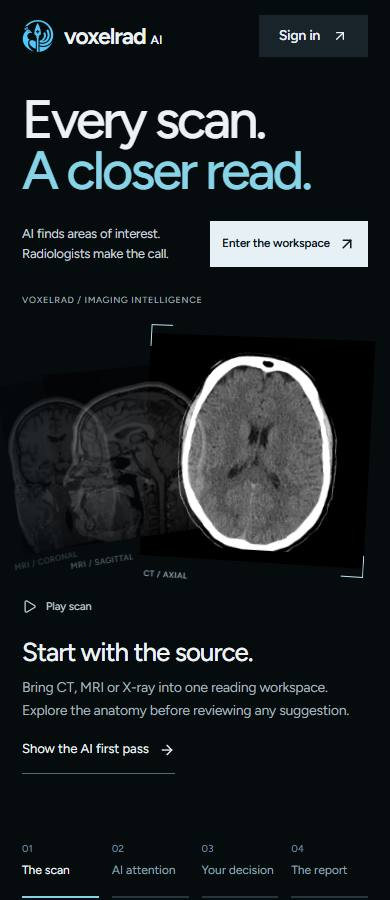
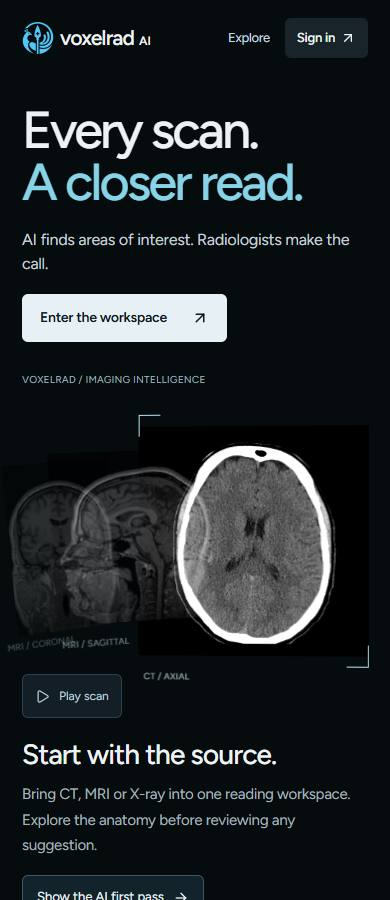
Polish cinematic landing with unified dark UI and scan comparison

diff --git a/app/src/landing-refinements.css b/app/src/landing-refinements.css
@@ -1,0 +1,95 @@
+/* Shared finish across the cinematic introduction and working demonstrations. */
+.vr-cinematic-page{--lp2-ink:#edf3f5;--lp2-muted:#a6b5bf;--lp2-blue:#9bd7e6;--lp2-paper:#080e12;--lp2-line:#263740;--lp2-soft:#17262f;background:var(--lp2-paper);color:var(--lp2-ink);color-scheme:dark}
+.vr-cinematic-page .lp2-wrap{width:min(1280px,calc(100% - 80px))}
+.vr-cinematic-page .lp2-header{width:100%;height:88px}
+.vr-cinematic-page .lp2-brand{font-size:25px;font-weight:550;letter-spacing:-.8px}
+.vr-cinematic-page .lp2-header nav{gap:34px;font-size:14px}
+.vr-cinematic-page .lp2-nav-login{border-radius:6px;padding:12px 20px}
+.vr-cinema{padding-top:34px}
+.lp2-page .vr-cinema h1{font-size:clamp(70px,7.2vw,104px);letter-spacing:-.052em;line-height:1}
+.vr-cinema-intro>a{border-radius:6px;padding:15px 23px}
+.vr-cinema-heading{align-items:center}
+.vr-cinema-scene{margin-top:40px;height:460px}
+.vr-film-label{font-size:12px;color:#9baeb9;letter-spacing:.025em}
+.vr-film-label>span+span{color:#9baeb9}
+.vr-film-coronal{top:95px;transform:rotateY(25deg) rotateZ(-6deg);opacity:.4}
+.vr-film-sagittal{top:55px;transform:rotateY(15deg) rotateZ(-3deg);opacity:.68}
+.vr-film-axial{width:385px;height:395px;top:20px;transform:rotateY(-4deg) rotateZ(0)}
+.vr-film>span{font-size:11px;letter-spacing:.025em}
+.vr-cinema-caption{top:115px;width:275px}
+.vr-cinema-caption>p:first-child{font-size:12px;letter-spacing:.03em;color:#94cddd}
+.lp2-page .vr-cinema-caption h2{font-size:32px;font-weight:500;letter-spacing:-.8px}
+.vr-cinema-caption>p:not(:first-child){font-size:16px;line-height:1.7}
+.vr-cinema-caption>button{border:1px solid #3e5663;border-radius:6px;padding:12px 15px;font-size:14px;gap:9px;margin-top:22px;background:#13232c}
+.vr-cinema-caption>button:hover{background:#203640;color:white}
+.vr-cine-control{font-size:13px!important;color:#becdd5;padding:10px 13px;background:#121f27;border:1px solid #2c414d;border-radius:6px;bottom:0}
+.vr-cinema-bottom nav{gap:10px;margin-top:25px}
+.vr-cinema-bottom nav button{border-radius:6px;padding:17px 20px;background:#0e181f;min-height:62px;font-size:15px;gap:13px}
+.vr-cinema-bottom nav button:hover{background:#182a35;color:#f3f8fb}
+.vr-cinema-bottom nav button[aria-current=step]{background:#213640;color:#e8f8ff}
+.vr-cinema-bottom nav button>i{left:20px;right:20px;height:2px;bottom:0;background:transparent}
+.vr-cinema-bottom nav button>span{color:#a2bac8;font-size:12px}
+.vr-cinema-bottom>p{font-size:12px;color:#9cabb5;margin-top:18px}
+.vr-cinematic-page .lp2-capabilities{background:transparent;padding-block:42px;gap:30px;color:var(--lp2-ink);border-bottom:1px solid var(--lp2-line)}
+.vr-cinematic-page .lp2-capabilities>div{border:0;padding:0;text-align:left}
+.vr-cinematic-page .lp2-capabilities strong{font-size:20px;font-weight:500}
+.vr-cinematic-page .lp2-capabilities span{font-size:14px;color:var(--lp2-muted);margin-top:7px}
+.vr-cinematic-page .lp3-flow-section{background:#080e12;padding-block:100px}
+.vr-cinematic-page .lp3-flow-heading{max-width:780px;text-align:left;margin:0}
+.vr-cinematic-page .lp3-flow-heading h2,.vr-cinematic-page .lp2-section-title h2,.vr-cinematic-page .lp2-questions h2{font-size:clamp(38px,4vw,56px);font-weight:500;letter-spacing:-1.7px;line-height:1.08}
+.vr-cinematic-page .lp3-flow-heading>p:last-child{font-size:18px;color:var(--lp2-muted);max-width:650px;margin-top:24px;line-height:1.65}
+.vr-cinematic-page .lp2-label{color:#91cddd;font-size:13px;font-weight:500;letter-spacing:.01em;margin-bottom:19px}
+.vr-cinematic-page .lp3-flow{border-color:#2d404b;border-radius:12px;background:#101b23;color:#edf3f5}
+.vr-cinematic-page .lp3-flow-nav{border-color:#2d404b;padding:16px 22px}
+.vr-cinematic-page .lp3-flow-nav button{color:#afbec8;font-size:14px}
+.vr-cinematic-page .lp3-flow-nav button>span{background:#233640;color:#c6d8e3}
+.vr-cinematic-page .lp3-flow-nav button[aria-current=step]{color:#c1ecf5}
+.vr-cinematic-page .lp3-flow-nav button[aria-current=step]>span{background:#a3d9e8;color:#10232c}
+.vr-cinematic-page .lp3-flow-progress{background:#263942}
+.vr-cinematic-page .lp3-flow-progress>span{background:#91d1e3}
+.vr-cinematic-page .lp3-flow-visual{background:#0b141b}
+.vr-cinematic-page .lp3-flow-tools button{color:#c1ced6;font-size:13px}
+.vr-cinematic-page .lp3-flow-tools>div{background:#20313c}
+.vr-cinematic-page .lp3-flow-tools button[aria-pressed=true]{background:#344f5d;color:#fff}
+.vr-cinematic-page .lp3-step-copy>p:not(.lp2-label){color:#b3c1cb;font-size:16px}
+.vr-cinematic-page .lp3-step-copy .lp3-disclosure{font-size:12px;color:#a5b5bf}
+.vr-cinematic-page .lp3-flow-copy .lp3-review-hint{background:#233b46;color:#d0ecf4!important}
+.vr-cinematic-page .lp3-finding-card,.vr-cinematic-page .lp3-flow-report{color:#182730}
+.vr-cinematic-page .lp3-flow-benefit{color:#a6b5bf;font-size:17px;text-align:left;margin:28px 0 0;max-width:760px}
+.vr-cinematic-page .lp2-primary{background:#b0deea;color:#11232b!important;border-radius:6px;padding:13px 20px;font-size:14px!important}
+.vr-cinematic-page .lp2-primary:hover{background:#d0eef5}
+.vr-cinematic-page .lp2-demo-section{background:#101a22;padding-block:96px}
+.vr-cinematic-page .lp2-section-title>p{color:var(--lp2-muted);font-size:17px;line-height:1.7}
+.vr-cinematic-page .lp2-demo-shell{background:#15232d;border-color:#304551;border-radius:12px;box-shadow:none}
+.vr-cinematic-page .lp2-demo-bar{padding:18px 24px;border-color:#304551}
+.vr-cinematic-page .lp2-demo-image{background:#080e12;padding:20px}
+.vr-cinematic-page .lp2-demo-guide{padding:32px}
+.vr-cinematic-page .lp2-demo-steps button{font-size:14px;color:#b7c7d0}
+.vr-cinematic-page .lp2-demo-steps button[aria-pressed=true]{background:#29414e;color:#d5f1f8}
+.vr-cinematic-page .lp2-demo-steps button[aria-pressed=true]>span{background:#a6d9e7;color:#122732;border-color:#a6d9e7}
+.vr-cinematic-page .lp2-demo-note textarea{background:#0c1720;color:#edf3f5;border-color:#577384}
+.vr-cinematic-page .lp2-demo-actions>button:first-child{background:#233946;color:#e5f3fa;border-color:#3d5767}
+.vr-cinematic-page .lp2-draft{background:#0c1821;border-color:#3c5462;color:#d9e9f2}
+.vr-cinematic-page .lp2-draft p{color:#b8c9d3}
+.vr-cinematic-page .lp2-audience{padding-block:100px}
+.vr-cinematic-page .lp2-audience-grid{gap:40px}
+.vr-cinematic-page .lp2-audience-grid article{border-color:#304651}
+.vr-cinematic-page .lp2-audience-grid h3{font-size:25px;font-weight:500;line-height:1.2;margin-bottom:18px}
+.vr-cinematic-page .lp2-audience-grid article>p{font-size:16px;line-height:1.7}
+.vr-cinematic-page .lp2-audience-grid ul{font-size:14px;color:#c5d0d8;gap:12px}
+.vr-cinematic-page .lp2-audience-grid article>span{color:#92cddd;font-size:13px}
+.vr-cinematic-page .lp2-use-note{color:#a1b3be;font-size:13px}
+.vr-cinematic-page .lp-question button{color:#e6eff5;font-size:17px;min-height:80px}
+.vr-cinematic-page .lp-answer p{color:#b1c1cb;font-size:16px;line-height:1.7}
+.vr-cinematic-page .lp2-close{background:#182a35;border-radius:12px;padding:54px}
+.vr-cinematic-page .lp2-close h2{font-size:52px;font-weight:500;line-height:1.06;letter-spacing:-1.6px}
+.vr-cinematic-page .lp2-footer{padding-top:55px}
+.vr-cinematic-page .lp2-footer small{font-size:12px;line-height:1.7}
+.vr-mobile-menu{display:none;position:relative}
+@media(max-width:1200px){.vr-film-axial{width:320px;height:360px;left:250px}.vr-cinema-caption{width:245px}.lp2-page .vr-cinema-caption h2{font-size:28px}}
+@media(max-width:950px){.vr-cinematic-page .lp2-wrap{width:calc(100% - 60px)}.vr-cinema-scene{height:440px}.vr-film-axial{width:265px;height:320px;left:165px}.vr-cinema-caption{width:210px;top:85px}.vr-cinema-caption>p:not(:first-child){font-size:14px}.vr-cinema-caption>button{font-size:12px;padding:10px}.vr-cinema-bottom nav button{padding:15px 12px;font-size:14px}.vr-cinematic-page .lp2-demo-guide{padding:24px}.vr-cinematic-page .lp2-audience-grid{gap:24px}}
+@media(max-width:760px){.vr-cinematic-page .lp2-wrap{width:calc(100% - 44px)}.vr-cinematic-page .lp2-header{width:100%;padding-inline:22px;height:76px;gap:15px}.vr-cinematic-page .lp2-brand{font-size:21px;gap:6px}.vr-cinematic-page .lp2-nav-login{padding:10px 12px;font-size:13px;gap:5px}.vr-mobile-menu{display:block;margin-left:auto}.vr-mobile-menu summary{list-style:none;cursor:pointer;font-size:13px;min-height:44px;display:flex;align-items:center;color:#c5d9e5}.vr-mobile-menu summary::-webkit-details-marker{display:none}.vr-cinematic-page .vr-mobile-menu nav{position:absolute;right:-80px;top:48px;z-index:20;width:215px;display:flex;flex-direction:column;gap:0;background:#172832;border:1px solid #3d5563;border-radius:8px;padding:10px;box-shadow:0 15px 35px #0005}.vr-mobile-menu nav a{padding:12px!important;font-size:14px}.vr-cinematic-page .lp2-capabilities{gap:24px;padding-block:30px}.vr-cinematic-page .lp2-capabilities strong{font-size:18px}.vr-cinematic-page .lp2-capabilities span{font-size:13px}.vr-cinematic-page .lp3-flow-section,.vr-cinematic-page .lp2-demo-section,.vr-cinematic-page .lp2-audience{padding-block:64px}.vr-cinematic-page .lp3-flow-heading h2,.vr-cinematic-page .lp2-section-title h2,.vr-cinematic-page .lp2-questions h2{font-size:38px;letter-spacing:-1.1px}.vr-cinematic-page .lp3-flow-heading>p:last-child,.vr-cinematic-page .lp2-section-title>p{font-size:16px}.vr-cinematic-page .lp3-flow-nav{padding:10px}.vr-cinematic-page .lp3-flow-nav button{font-size:12px}.vr-cinematic-page .lp2-demo-image{padding:10px}.vr-cinematic-page .lp2-demo-guide{padding:24px}.vr-cinematic-page .lp2-audience-grid{gap:30px}.vr-cinematic-page .lp2-close{padding:30px}.vr-cinematic-page .lp2-close h2{font-size:38px}.vr-cinematic-page .lp-question button{font-size:16px}.vr-cinematic-page .lp2-footer{padding-top:35px}}
+@media(max-width:700px){.vr-cinema{padding-top:28px}.lp2-page .vr-cinema h1{font-size:clamp(52px,12vw,74px)}.vr-cinema-intro{display:block;margin-top:20px}.vr-cinema-intro p{font-size:16px;line-height:1.5}.vr-cinema-intro p br{display:none}.vr-cinema-intro>a{margin-top:18px;font-size:14px;padding:13px 18px;gap:24px}.vr-cinema-scene{margin-top:30px;height:570px}.vr-film-label{font-size:10px}.vr-film-axial{width:230px;height:275px;left:auto;right:0;top:17px}.vr-film-coronal{top:65px}.vr-film-sagittal{top:45px}.vr-film>span{font-size:9px}.vr-cine-control{top:302px;bottom:auto;font-size:12px!important;padding:8px 12px}.vr-cinema-caption{top:367px;width:auto}.lp2-page .vr-cinema-caption h2{font-size:28px;margin-bottom:12px}.vr-cinema-caption>p:not(:first-child){font-size:15px}.vr-cinema-caption>button{font-size:13px;padding:11px 14px;margin-top:16px;min-height:46px}.vr-cinema-bottom nav{gap:7px;margin-top:18px}.vr-cinema-bottom nav button{padding:12px 8px;font-size:11px;min-height:73px}.vr-cinema-bottom nav button>span{font-size:11px}.vr-cinema-bottom nav button>i{left:8px;right:8px}.vr-cinema-bottom>p{font-size:11px;line-height:1.6}.vr-cinema-report{top:30px}.vr-cinematic-page .lp3-flow-copy{min-height:375px}}
+.vr-cinematic-page .lp2-audience{background:transparent;padding-inline:0}
+.vr-cinematic-page .lp2-audience-grid article{background:transparent;border:0;border-top:1px solid #304651;border-radius:0;padding:25px 0 0}
+.vr-cinematic-page .lp3-flow-heading>p:last-child{margin-inline:0}

diff --git a/app/src/LandingPage.tsx b/app/src/LandingPage.tsx
@@ -3,6 +3,7 @@ import { Accordion, Tabs } from 'radix-ui'
 import { ArrowRight, ArrowUpRight, Pause, Play, Plus, Minus, Layers3, ScanLine, FileText, Check, RotateCcw, ArrowLeft } from 'lucide-react'
 import './landing.css'
 import { CinematicHero } from './CinematicHero'
+import './landing-refinements.css'
 
 const views = [
   { label: 'CT · Axial', image: '/login/ct-poster.webp', title: 'CT brain', detail: 'Move through the volume.', description: 'Play the axial cine or pause to take a closer look.' },
@@ -149,19 +150,19 @@ export function LandingPage() {
   useEffect(() => { document.title = 'VoxelRad AI — Your imaging workspace, reimagined' }, [])
   return <div className="landing-page lp2-page vr-cinematic-page" onKeyDownCapture={(event) => { event.currentTarget.dataset.motionInput = "keyboard" }} onPointerDownCapture={(event) => { event.currentTarget.dataset.motionInput = "pointer" }}>
     <a className="lp-skip" href="#main">Skip to content</a>
-    <header className="lp2-header lp2-wrap"><a className="lp2-brand" href="/" aria-label="VoxelRad AI home"><img src="/skanda-mark.png" alt="" /><span>voxelrad<span>AI</span></span></a><nav aria-label="Main navigation"><a href="#how-it-works">How it works</a><a href="#for-you">Who it’s for</a><a href="#demo">Try the demo</a></nav><a className="lp2-nav-login" href="/workspace">Sign in <ArrowUpRight size={16} /></a></header>
+    <header className="lp2-header lp2-wrap"><a className="lp2-brand" href="/" aria-label="VoxelRad AI home"><img src="/skanda-mark.png" alt="" /><span>voxelrad<span>AI</span></span></a><nav aria-label="Main navigation"><a href="#how-it-works">How it works</a><a href="#for-you">Who it’s for</a><a href="#demo">Try the demo</a></nav><details className="vr-mobile-menu" onKeyDown={(event) => { if (event.key === 'Escape') { event.currentTarget.open = false; event.currentTarget.querySelector('summary')?.focus() } }}><summary>Explore</summary><nav aria-label="Mobile navigation" onClick={(event) => { event.currentTarget.closest('details')?.removeAttribute('open') }}><a href="#how-it-works">How it works</a><a href="#demo">Try the demo</a><a href="#for-you">Who it is for</a></nav></details><a className="lp2-nav-login" href="/workspace">Sign in <ArrowUpRight size={16} /></a></header>
     <main id="main">
       <CinematicHero />
       <section className="lp2-capabilities lp2-wrap" aria-label="Workspace capabilities"><div><strong>X-ray</strong><span>Image review & annotation</span></div><div><strong>CT & MRI</strong><span>Slice navigation & multiplanar views</span></div><div><strong>Findings</strong><span>Evidence beside the image</span></div><div><strong>Reports</strong><span>Draft, review & export</span></div></section>
-      <section className="lp3-flow-section" id="how-it-works" aria-labelledby="flow-title"><div className="lp2-wrap"><div className="lp3-flow-heading"><p className="lp2-label">From scan to report</p><h2 id="flow-title">AI takes the first pass.<br />You make the call.</h2><p>Upload a scan. Let AI highlight areas for attention with heatmaps and boxes. Review the evidence, approve or revise the findings, then bring them into a report.</p></div><div className="lp4-process">{flowSteps.map((item,index) => <article key={item.title}><span>{String(index+1).padStart(2,'0')}</span><h3>{item.title}</h3><p>{item.text}</p></article>)}</div><div className="lp5-workflow" id="hero-review"><ReviewFlow /></div><p className="lp3-flow-benefit">Designed to help radiologists find areas of interest sooner and spend less time assembling reports.</p></div></section>
-      <section className="lp2-demo-section" id="demo" aria-labelledby="demo-title"><div className="lp2-wrap"><div className="lp2-section-title"><div><p className="lp2-label">A little less reading. A little more doing.</p><h2 id="demo-title">Meet your workspace.</h2></div><p>Try a three-step walkthrough with a real teaching scan. Change the view, add an observation, and see it in a sample draft.</p></div><GuidedDemo /></div></section>
-      <section className="lp2-audience lp2-wrap" id="for-you" aria-labelledby="audience-title"><div className="lp2-section-title"><div><p className="lp2-label">Who it’s for</p><h2 id="audience-title">For people<br />who look closer.</h2></div><p>For evaluating imaging workflows, learning from anatomy, and exploring model-assisted review.</p></div><div className="lp2-audience-grid">
+      <section className="lp3-flow-section" id="how-it-works" aria-labelledby="flow-title"><div className="lp2-wrap"><div className="lp3-flow-heading"><p className="lp2-label">From scan to report</p><h2 id="flow-title">AI takes the first pass.<br />You make the call.</h2><p>Upload a scan. Let AI highlight areas for attention with heatmaps and boxes. Review the evidence, approve or revise the findings, then bring them into a report.</p></div><div className="lp5-workflow" id="hero-review"><ReviewFlow /></div><p className="lp3-flow-benefit">Designed to help radiologists find areas of interest sooner and spend less time assembling reports.</p></div></section>
+      <section className="lp2-demo-section" id="demo" aria-labelledby="demo-title"><div className="lp2-wrap"><div className="lp2-section-title"><div><p className="lp2-label">Try it yourself</p><h2 id="demo-title">Meet your workspace.</h2></div><p>Try a three-step walkthrough with a real teaching scan. Change the view, add an observation, and see it in a sample draft.</p></div><GuidedDemo /></div></section>
+      <section className="lp2-audience lp2-wrap" id="for-you" aria-labelledby="audience-title"><div className="lp2-section-title"><div><p className="lp2-label">Who it’s for</p><h2 id="audience-title">Built around<br />the reader.</h2></div><p>For evaluating imaging workflows, learning from anatomy, and exploring model-assisted review.</p></div><div className="lp2-audience-grid">
         <article><span>Clinical evaluation</span><h3>Radiologists & clinicians</h3><p>Explore a focused image-to-report workflow. Keep the source scan visible as you review findings and develop your interpretation.</p><ul><li>Multiplanar CT and MRI review</li><li>Image, findings and report together</li><li>Professional judgment at every step</li></ul></article>
         <article><span>Teaching & learning</span><h3>Residents & educators</h3><p>Make the relationship between planes tangible. Use public samples to practise navigation and discuss observations.</p><ul><li>Included public teaching volumes</li><li>Controls directly on the scan</li><li>A repeatable review workflow</li></ul></article>
         <article><span>Research & development</span><h3>Imaging researchers</h3><p>Connect a supported model server to investigate draft findings and regions alongside their source images.</p><ul><li>Configurable model connection</li><li>Model outputs subject to review</li><li>Hosted inference not yet enabled</li></ul></article>
       </div><p className="lp2-use-note">VoxelRad AI is for research and evaluation. It is not a clinically validated diagnostic system.</p></section>
       <section className="lp2-questions lp2-wrap" aria-labelledby="questions-title"><div><p className="lp2-label">Good to know</p><h2 id="questions-title">A few answers.</h2><p>What’s available, what you need,<br />and where to begin.</p></div><Accordion.Root className="lp-questions" type="single" collapsible>{questions.map(([question, answer], index) => <Accordion.Item className="lp-question" value={String(index)} key={question}><Accordion.Header><Accordion.Trigger>{question}<Plus size={20} aria-hidden="true" /></Accordion.Trigger></Accordion.Header><Accordion.Content className="lp-answer"><p>{answer}</p></Accordion.Content></Accordion.Item>)}</Accordion.Root></section>
-      <section className="lp2-close lp2-wrap"><div><img src="/skanda-mark.png" alt="" /><h2>Make room<br />for a closer look.</h2><p>Open the workspace. Give the image your full attention.</p></div><a className="lp2-primary" href="/workspace">Open VoxelRad AI <ArrowRight size={18} /></a></section>
+      <section className="lp2-close lp2-wrap"><div><img src="/skanda-mark.png" alt="" /><h2>Your next read<br />starts here.</h2><p>Open the workspace. Give the image your full attention.</p></div><a className="lp2-primary" href="/workspace">Open VoxelRad AI <ArrowRight size={18} /></a></section>
     </main><footer className="lp2-footer lp2-wrap"><a className="lp2-brand" href="/" aria-label="VoxelRad AI home"><img src="/skanda-mark.png" alt="" /><span>voxelrad<span>AI</span></span></a><p>A clearer space for imaging.</p><a href="/workspace">Sign in <ArrowUpRight size={15} /></a><small>voxelradai.com · Public teaching imagery: Slicer CTBrain and MRHead. No patient data is used in this demo.</small></footer>
   </div>
 }

diff --git a/app/src/CinematicHero.tsx b/app/src/CinematicHero.tsx
@@ -12,6 +12,7 @@ const chapters = [
 export function CinematicHero() {
   const [chapter, setChapter] = useState(0)
   const [approved, setApproved] = useState(false)
+  const [overlay, setOverlay] = useState(true)
   const [playing, setPlaying] = useState(false)
   const scene = useRef<HTMLDivElement>(null)
   const cine = useRef<HTMLVideoElement>(null)
@@ -30,7 +31,7 @@ export function CinematicHero() {
       return () => { window.clearTimeout(timer); observer.disconnect(); preference.removeEventListener('change', pause); document.removeEventListener('visibilitychange', onVisibility) }
     }
   }, [])
-  const select = (index: number) => { cine.current?.pause(); setChapter(index) }
+  const select = (index: number) => { cine.current?.pause(); setChapter(index); setOverlay(true) }
   const advance = () => {
     if (chapter === 2) setApproved(true)
     if (chapter === 3) { setApproved(false); select(0) } else select(chapter + 1)
@@ -38,7 +39,7 @@ export function CinematicHero() {
   return <section className="vr-cinema" data-chapter={chapter} aria-labelledby="hero-title">
     <div className="vr-cinema-heading">
       <h1 id="hero-title">Every scan.<br /><span>A closer read.</span></h1>
-      <div className="vr-cinema-intro"><p>AI finds areas of interest.<br />Radiologists make the call.</p><a href="/workspace">Enter the workspace <ArrowUpRight size={18} /></a></div>
+      <div className="vr-cinema-intro"><p>AI finds areas of interest. <br />Radiologists make the call.</p><a href="/workspace">Enter the workspace <ArrowUpRight size={18} /></a></div>
     </div>
     <div className="vr-cinema-scene" ref={scene}>
       <div className="vr-film-label"><span>VOXELRAD / IMAGING INTELLIGENCE</span><span>CT + MRI + X-RAY</span></div>
@@ -47,13 +48,14 @@ export function CinematicHero() {
         <div className="vr-film vr-film-sagittal"><img src="/login/mr-sagittal.webp" alt="Sagittal MRI teaching view" /><span>MRI / SAGITTAL</span></div>
         <div className="vr-film vr-film-axial"><div className="vr-crosshair vr-crosshair-a" /><div className="vr-crosshair vr-crosshair-b" />
           {chapter === 0 ? <video ref={cine} muted playsInline preload="metadata" poster="/login/ct-poster.webp" onPlay={() => setPlaying(true)} onPause={() => setPlaying(false)} onEnded={() => setPlaying(false)} aria-label="CT brain teaching cine"><source src="/login/ct-cine.mp4" type="video/mp4" /></video> : <img src="/login/ct-poster.webp" alt="Axial CT teaching scan" />}
-          {chapter > 0 && <div className="vr-cinema-overlay" aria-label="Illustrative attention map and candidate box"><i /><span><b>Region for review</b></span></div>}
-          <span>CT / AXIAL <em>{chapter === 0 ? 'SOURCE IMAGE' : 'ILLUSTRATIVE OVERLAY'}</em></span>
+          {chapter > 0 && overlay && <div className="vr-cinema-overlay" aria-label="Illustrative attention map and candidate box"><i /><span><b>Region for review</b></span></div>}
+          <span>CT / AXIAL <em>{chapter === 0 || !overlay ? 'SOURCE IMAGE' : 'ILLUSTRATIVE OVERLAY'}</em></span>
         </div>
       </div>
       {chapter === 3 && <div className="vr-cinema-report"><span>VOXELRAD / REPORT DRAFT</span><h3>Evidence,<br />carried forward.</h3><p className="vr-report-reviewed">{approved ? <Check size={17} /> : null}{approved ? 'Example finding approved' : 'No finding approved'}</p><h4>Findings</h4><p>{approved ? 'The reviewed example is included in this demonstration draft.' : 'Return to Your decision to review the example.'}</p><h4>Impression</h4><p>To be completed by the radiologist.</p><footer>Draft only. Final clinical review required.</footer></div>}
       <div className="vr-cinema-caption" aria-live="polite"><p>{String(chapter + 1).padStart(2,'0')} / THE READING JOURNEY</p><h2>{current.title}</h2><p>{current.text}</p><button onClick={advance}>{chapter === 2 ? <Check size={16} /> : chapter === 3 ? <RotateCcw size={16} /> : null}{current.action}<ArrowRight size={16} /></button></div>
       {chapter === 0 && <button className="vr-cine-control" onClick={() => { if (playing) cine.current?.pause(); else void cine.current?.play().catch(() => {}) }} aria-label={playing ? 'Pause scan motion' : 'Play scan motion'}>{playing ? <Pause size={15} /> : <Play size={15} />}{playing ? 'Pause scan' : 'Play scan'}</button>}
+      {(chapter === 1 || chapter === 2) && <button className="vr-cine-control vr-compare-control" aria-pressed={!overlay} onClick={() => setOverlay(!overlay)}>{overlay ? 'Compare with original' : 'Restore AI overlay'} <ArrowRight size={15} /></button>}
     </div>
     <div className="vr-cinema-bottom"><nav aria-label="Imaging story chapters">{chapters.map((item,index) => <button key={item.name} aria-current={chapter === index ? 'step' : undefined} onClick={() => select(index)}><span>{String(index+1).padStart(2,'0')}</span>{item.name}<i /></button>)}</nav><p>Public teaching scans. Illustrative AI, not live inference.</p></div>
   </section>

diff --git a/docs/design/landing-page.md b/docs/design/landing-page.md
@@ -21,3 +21,9 @@ The detailed workflow below the hero retains CT/MRI switching, overlay visibilit
 Design-taste, Awwwards web design, UI UX Pro Max and Emil Design Engineering informed composition, motion and interaction. The reference research used the Awwwards skill casebook and Lusion's public description of its 3D storytelling practice. Live Awwwards pages timed out and Lusion's automated screenshot remained in its loader; neither was claimed as a successfully inspected live hero.
 
 Build and lint pass. Chrome checks cover all four chapters, unapproved direct report navigation, explicit approval, replay, reduced-motion playback, console errors, overflow and report/copy collisions at 375, 390, 768 and 1440 pixels. Screenshots are saved in `docs/screenshots/landing/`.
+
+## Interface refinement
+
+The cinematic direction now extends through the complete landing page. Shared dark surfaces, cyan actions, readable secondary text and consistent corner radii unify the workflow, viewer demonstration, audience section, FAQ and footer. The redundant four-step prose grid was removed; the interactive workflow remains. Hero chapter controls have a filled selected state, and review chapters support comparing the original image with the illustrative overlay. Mobile navigation provides an Explore menu with close-on-navigation and Escape handling.
+
+Additional Chrome checks cover the mobile menu, source comparison, FAQ expansion and supporting-section appearance. Audience and viewer-demo screenshots are included alongside the three responsive hero captures.
